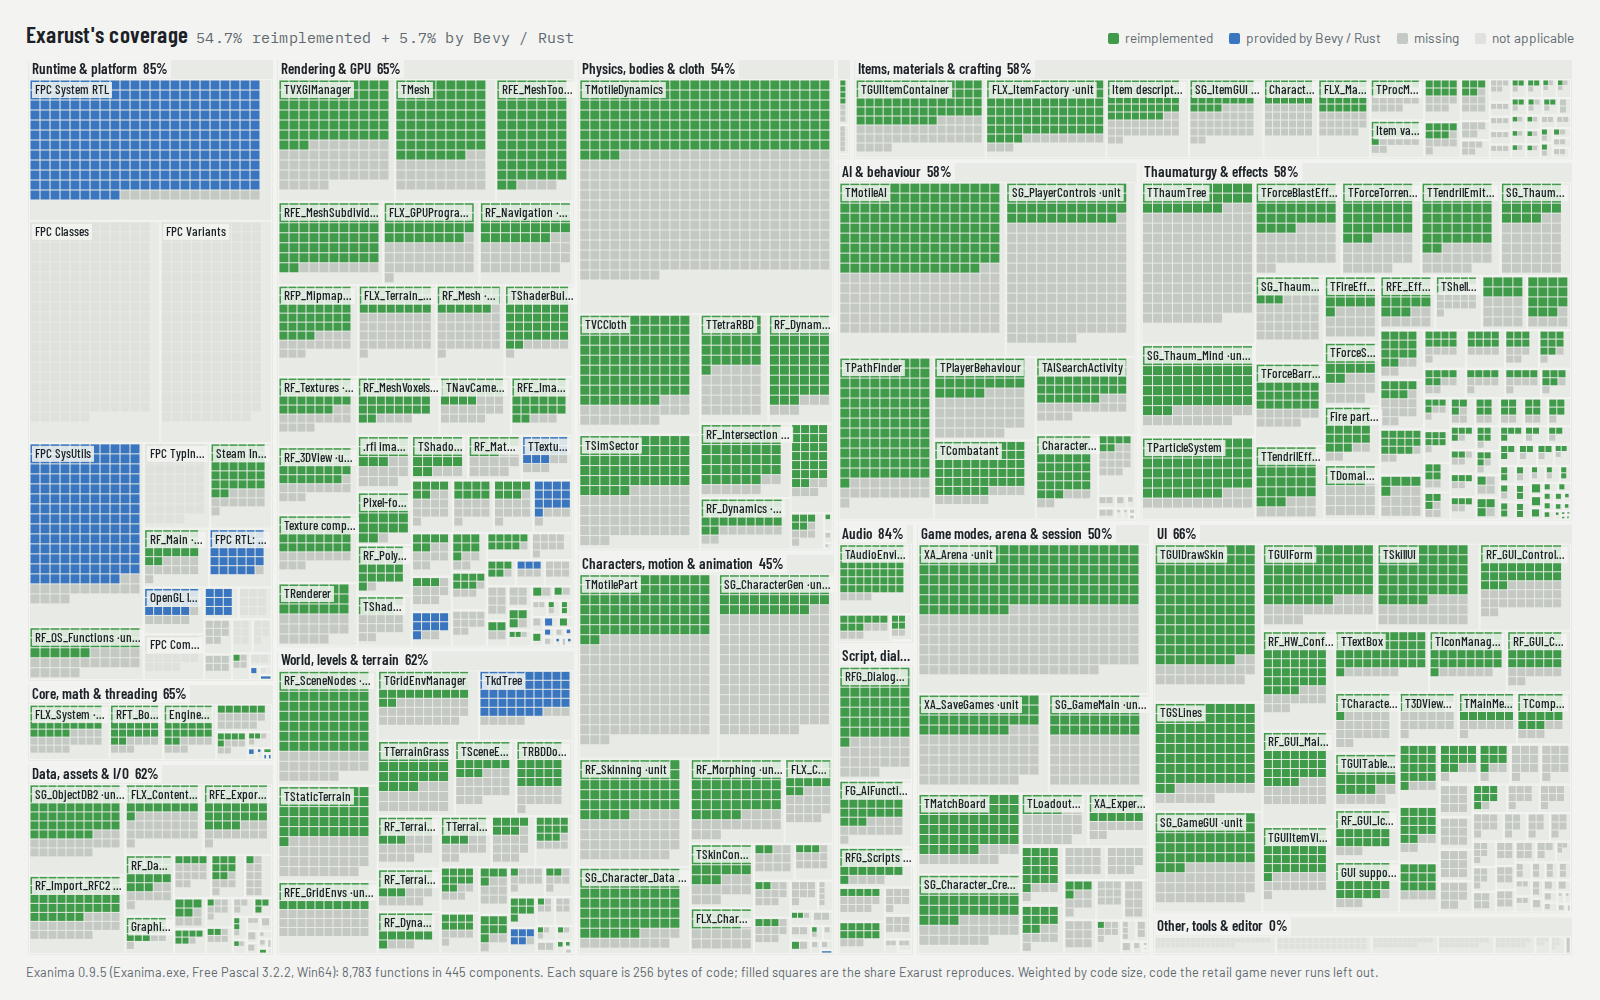
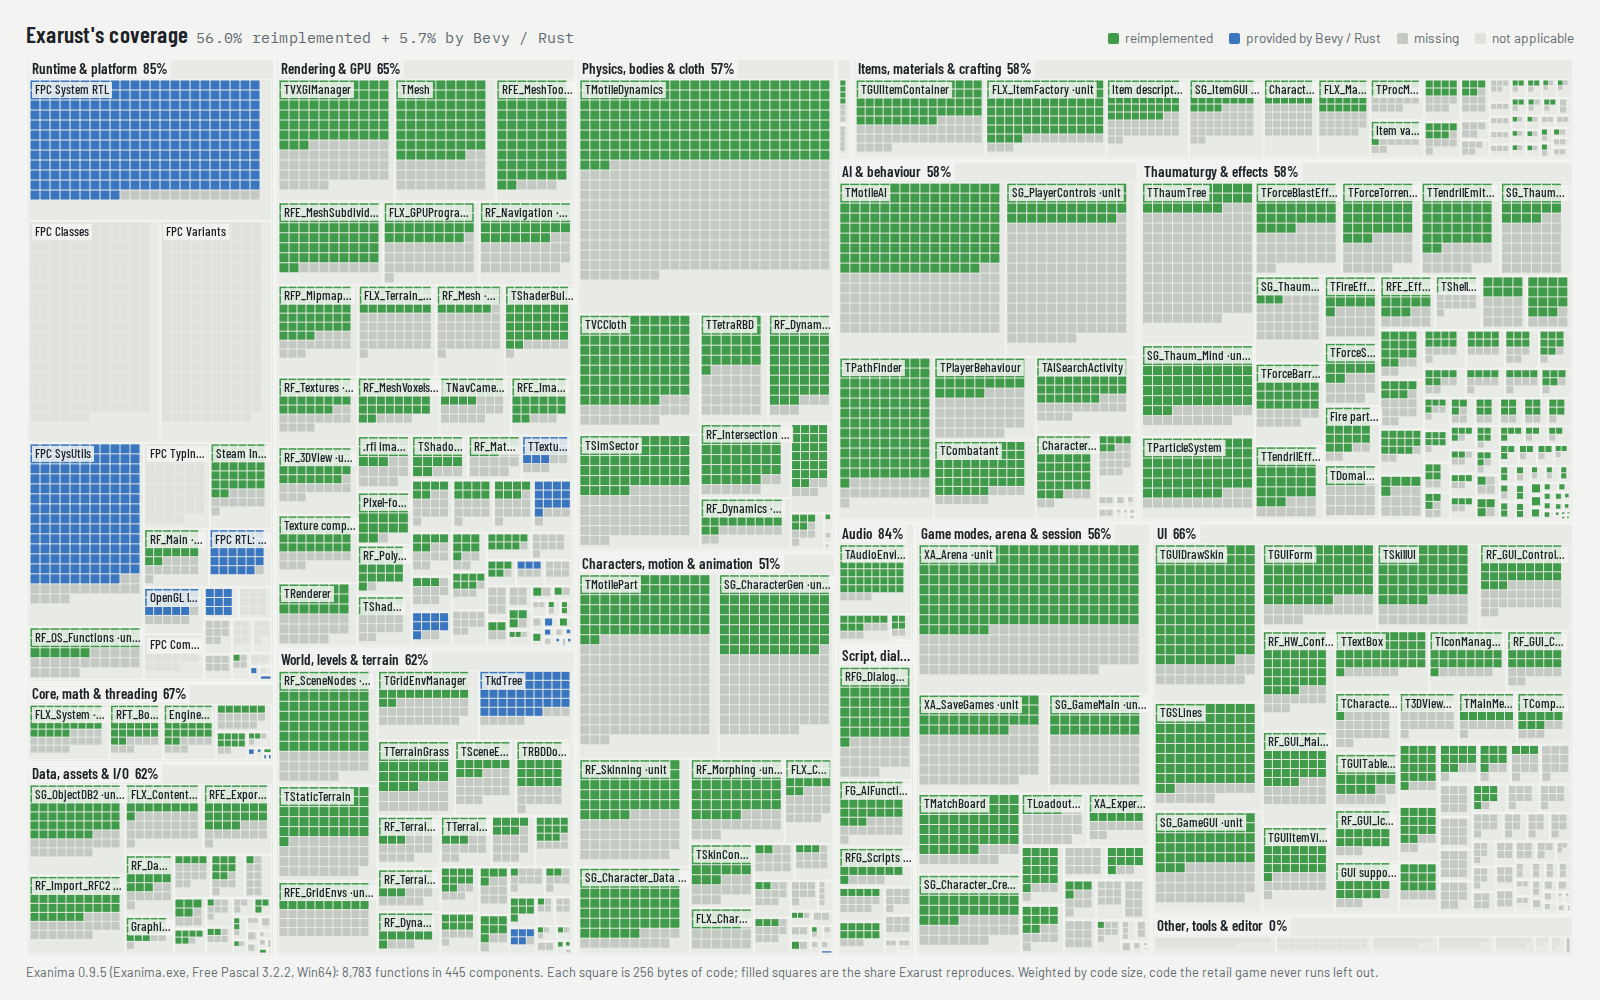
Record the arena staff and outfits, the character generator and the motile combat body in the coverage map
XA_Arena 50% -> 65%, the arena save and rank helpers 0% -> 85%,
SG_CharacterGen 24% -> 50%, THairColPicker 0% -> 28%, the colour helpers
48% -> 75%, FLXG_Character_Races 28% -> 29%, TMotileDynamics 37% -> 42%.
Overall 54.7% -> 56.0% reimplemented (5.7% engine-provided).

diff --git a/docs/COMPONENT-MAP.md b/docs/COMPONENT-MAP.md
@@ -5,8 +5,8 @@ Every function of the retail `Exanima.exe` (Exanima 0.9.5, Free Pascal 3.2.2, Wi
 ## Headline
 
 - **8,783 functions**, 2,616 KB of code, in **445 components** across 16 sections.
-- Weighted by code size, with code the retail game never runs left out (1,343 functions, 163 KB): **54.7% reimplemented** by Exarust's own code and **5.7% provided** by Bevy, wgpu, rapier or the Rust standard library.
-- Weighted by function count (zero-byte imported names left out): 48.2% and 12.5%. The runtime's many tiny RTL routines make this figure lean towards the engine, which is why code size is the headline.
+- Weighted by code size, with code the retail game never runs left out (1,343 functions, 163 KB): **56.0% reimplemented** by Exarust's own code and **5.7% provided** by Bevy, wgpu, rapier or the Rust standard library.
+- Weighted by function count (zero-byte imported names left out): 49.3% and 12.5%. The runtime's many tiny RTL routines make this figure lean towards the engine, which is why code size is the headline.
 - The 24 combat-rule functions (52 KB of damage, armour and weapon-stat rules inside body, part, AI and item owners) are **44.1%** reproduced.
 
 ## By section
@@ -14,20 +14,20 @@ Every function of the retail `Exanima.exe` (Exanima 0.9.5, Free Pascal 3.2.2, Wi
 | section | functions | KB | components | reimplemented | by engine | largest missing |
 |---|---:|---:|---:|---:|---:|---|
 | Runtime & platform | 2,407 | 293 | 26 | 13% | 72% | Win32 clipboard image/icon glue |
-| Core, math & threading | 282 | 37 | 11 | 64% | 1% |  |
+| Core, math & threading | 282 | 37 | 11 | 66% | 1% |  |
 | Data, assets & I/O | 440 | 91 | 26 | 62% | 0% | TStringLibrary, RF_DataManager, RFG_Locales routines (RFE_Export_RFC2 by address) |
 | Rendering & GPU | 823 | 334 | 63 | 62% | 3% | FLX_IconRender, Shading-mask GLSL snippets, Screen-quad GLSL snippets |
 | World, levels & terrain | 454 | 174 | 31 | 54% | 7% | TSector, Scene node despawn and viewport step (TSceneTaskInt by address), TTerrainPlugin |
-| Physics, bodies & cloth | 363 | 242 | 13 | 54% | 0% | RFE_Dynamics_Cloth, TSimObject |
-| Characters, motion & animation | 506 | 198 | 23 | 45% | 0% | TCharDecomp2, TKFCCatRom3f, SG_CharacterMorph |
+| Physics, bodies & cloth | 363 | 242 | 13 | 57% | 0% | RFE_Dynamics_Cloth, TSimObject |
+| Characters, motion & animation | 506 | 198 | 23 | 51% | 0% | TCharDecomp2, TKFCCatRom3f, SG_CharacterMorph |
 | Combat, weapons & damage | 14 | 3 | 3 | 31% | 0% | RFE_Effects_Blood, TBloodSprays |
 | Items, materials & crafting | 341 | 140 | 40 | 58% | 0% | TCharLoot, TItemRenderer, TPopUpDesc |
 | AI & behaviour | 437 | 206 | 17 | 58% | 0% | TCharViewBehaviour, TObjectEntity, FLXG_Pathfinding |
 | Thaumaturgy & effects | 697 | 296 | 83 | 58% | 0% |  |
 | Audio | 59 | 18 | 4 | 84% | 0% |  |
 | Script, dialogue & story | 184 | 46 | 11 | 64% | 0% | TDialogueChoices, TScriptRole, TGameTips |
-| Game modes, arena & session | 646 | 193 | 23 | 50% | 0% | TCharCreation, XA_Arena save and rank helpers (TMatchBoard by address), TShopWindow |
-| UI | 959 | 312 | 63 | 66% | 0% | THairColPicker, SG_GUI_Skills, TGUIColSwatch |
+| Game modes, arena & session | 646 | 193 | 23 | 56% | 0% | TCharCreation, TShopWindow, SG_SaveWorld |
+| UI | 959 | 312 | 63 | 66% | 0% | SG_GUI_Skills, TGUIColSwatch, RF_GUI_Classes |
 | Other, tools & editor | 171 | 33 | 8 | 0% | 0% | Debug command registry (unit before RF_Dynamics) |
 
 - **Runtime & platform.** The Free Pascal runtime, the Windows imports and the engine's thin platform layer: program entry, window and OpenGL context, the frame loop with its pacing, and Steam with Steam Input gamepads. Much of the linked runtime never runs. Rust std, winit, Bevy and wgpu cover most of what does run; Steam, gamepads, the custom cursor, fullscreen display modes and the error message box are missing.
@@ -54,10 +54,8 @@ Ordered by code size; these are where most of the original still has no counterp
 | component | section | functions | KB | coverage |
 |---|---|---:|---:|---:|
 | TCharCreation | Game modes, arena & session | 12 | 3 | 3% |
-| XA_Arena save and rank helpers (TMatchBoard by address) | Game modes, arena & session | 9 | 3 | 0% |
 | SG_Character_DBs | Data, assets & I/O | 15 | 3 | 10% |
 | FLX_IconRender | Rendering & GPU | 13 | 3 | 0% |
-| THairColPicker | UI | 9 | 2 | 0% |
 | SG_GUI_Skills | UI | 8 | 2 | 0% |
 | TShopWindow | Game modes, arena & session | 8 | 2 | 0% |
 | Shading-mask GLSL snippets | Rendering & GPU | 6 | 2 | 0% |
@@ -78,16 +76,19 @@ Ordered by code size; these are where most of the original still has no counterp
 | Screen-quad GLSL snippets | Rendering & GPU | 7 | 1 | 0% |
 | RF_Splines | Rendering & GPU | 8 | 1 | 0% |
 | Steam API glue | Runtime & platform | 16 | 1 | 7% |
+| TScriptRole | Script, dialogue & story | 6 | 1 | 0% |
+| TCharLoot | Items, materials & crafting | 7 | 1 | 0% |
 
 ## Best covered components
 
 | component | section | KB | coverage | Exarust |
 |---|---|---:|---:|---|
+| XA_Arena | Game modes, arena & session | 71 | 65% | exa_game/src/arena_outfit.rs; exa_game/src/arena_outfit_data.rs |
 | TMotileAI | AI & behaviour | 60 | 59% | exa_ai/src/chase.rs; exa_ai/src/route.rs |
-| XA_Arena | Game modes, arena & session | 71 | 50% | exa_game/src/manage.rs; exa_game/src/tournament.rs |
 | TGUIDrawSkin | UI | 35 | 85% | exa_ui/src/skin.rs; exa_ui/src/lib.rs |
 | TPathFinder | AI & behaviour | 32 | 86% | exa_world/src/nav/path.rs; exa_world/src/nav/mover.rs |
 | TVCCloth | Physics, bodies & cloth | 30 | 81% | exa_physics/src/cloth.rs; exa_world/src/cloth_draw.rs |
+| SG_CharacterGen | Characters, motion & animation | 43 | 50% | exa_character/src/layers.rs; exa_character/src/look.rs |
 | FLX_ItemFactory | Items, materials & crafting | 24 | 87% | exa_formats/src/factory.rs; exa_formats/src/weapon_stats.rs |
 | TGSLines | UI | 24 | 85% | exa_ui/src/skin.rs; exa_ui/src/line_skin.rs |
 | RFE_MeshTools | Rendering & GPU | 19 | 95% | exa_assets/src/mesh_weld.rs; exa_assets/src/mesh_edit.rs |
@@ -102,7 +103,6 @@ Ordered by code size; these are where most of the original still has no counterp
 | TGUIForm | UI | 20 | 76% | exa_ui/src/form.rs; exa_ui/src/form_test.rs |
 | TSimSector | Physics, bodies & cloth | 28 | 53% | exa_physics/src/sector.rs; exa_physics/src/body_pairs.rs |
 | SG_ObjectDB2 | Data, assets & I/O | 19 | 74% | exa_formats/src/objdb.rs; exa_formats/src/objdb/store.rs |
-| TCombatant | AI & behaviour | 17 | 85% | exa_ai/src/combatant.rs; exa_ai/src/place.rs |
 
 ## Combat rules
 

diff --git a/docs/reviews/coverage-history.md b/docs/reviews/coverage-history.md
@@ -94,3 +94,4 @@ while the map was being built, so treat the row as a best-effort snapshot.
 | 2026-10-21 | c4d28091 | clean | 50.8% | 5.7% | 45.0% | 44.1% | pathfinder, power classes, force effect nodes |
 | 2026-10-21 | 0aa173a7 | clean | 52.8% | 5.7% | 47.0% | 44.1% | game flow, splash, forms and game GUI, saves, world links, mesh unit, texture streaming, line skin |
 | 2026-10-21 | 76e5297b | clean | 54.7% | 5.7% | 48.2% | 44.1% | mind casts and force streams, NPC chase, motile part rules, combat walk and player behaviour |
+| 2026-10-21 | f1082e7d | clean | 56.0% | 5.7% | 49.3% | 44.1% | arena staff and outfits, character generator and hair picker, motile combat body |
